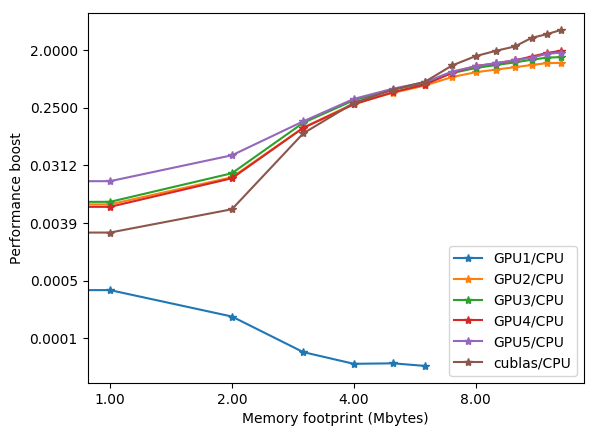
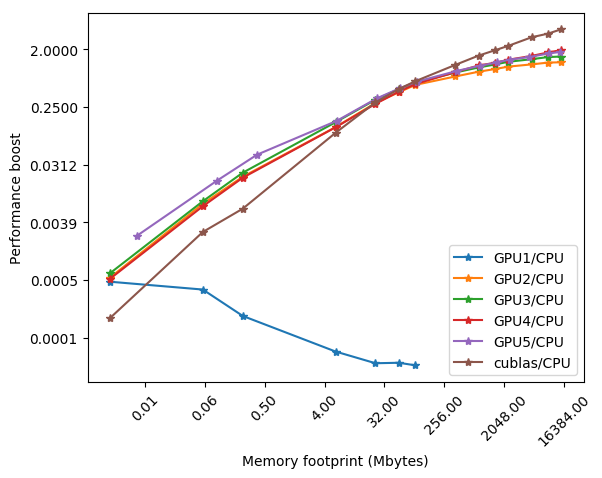
Corrected xticks error

diff --git a/matmult/data/viz.py b/matmult/data/viz.py
@@ -201,13 +201,13 @@ df3['GPU3/CPU'] = df3['Mflop/s']/df6['Mflop/s']
 df4['GPU4/CPU'] = df4['Mflop/s']/df6['Mflop/s']
 df5['GPU5/CPU'] = df5['Mflop/s']/df6['Mflop/s']
 df7['cublas/CPU'] = df7['Mflop/s']/df6['Mflop/s']
-ax = df1["GPU1/CPU"].plot(legend=True, style ='*-')
-ax = df2["GPU2/CPU"].plot(legend=True, style ='*-')
-ax = df3["GPU3/CPU"].plot(legend=True, style ='*-')
-ax = df4["GPU4/CPU"].plot(legend=True, style ='*-')
-ax = df5["GPU5/CPU"].plot(legend=True, style ='*-')
-ax = df7["cublas/CPU"].plot(legend=True, style ='*-')
-plt.legend(loc='lower right')
+ax = df1.plot(x='memory',y='GPU1/CPU',legend=True, style ='*-')
+df2.plot(x='memory',y='GPU2/CPU',legend=True, style ='*-',ax=ax)
+df3.plot(x='memory',y='GPU3/CPU',legend=True, style ='*-',ax=ax)
+df4.plot(x='memory',y='GPU4/CPU',legend=True, style ='*-',ax=ax)
+df5.plot(x='memory',y='GPU5/CPU',legend=True, style ='*-',ax=ax)
+df7.plot(x='memory',y='cublas/CPU',legend=True, style ='*-',ax=ax)
+plt.legend(['GPU1/CPU','GPU2/CPU','GPU3/CPU','GPU4/CPU','GPU5/CPU','cublas/CPU'],loc='lower right')
 plt.xlabel('Memory footprint (Mbytes)')
 plt.ylabel('Performance boost')
 plt.xscale('log',basex=2)
@@ -217,5 +217,6 @@ ax = plt.gca().xaxis
 ax.set_major_formatter(FormatStrFormatter('%.2f'))
 ax = plt.gca().yaxis
 ax.set_major_formatter(FormatStrFormatter('%.4f'))
+plt.xticks(rotation=45)
 plt.savefig('Mflops_speedup.png', bbox_inches='tight')
 plt.close()
